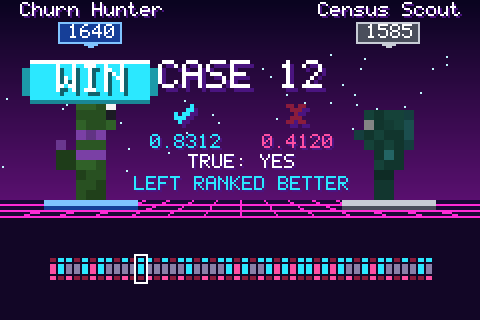
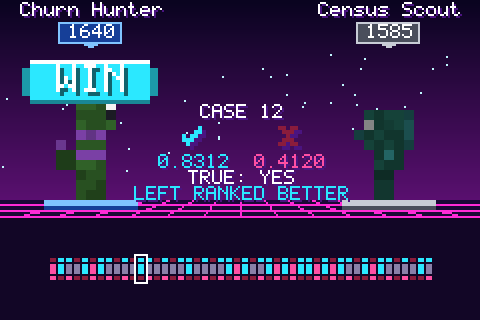
Kards: the duel read-back clears every ending, and takes signed scores
From the game's own wiring of the read-back:
- With a result and a focus together, "CASE n" ran into the WIN
  banner. The whole read-back now sits under every banner and ribbon
  (rows 52 to 99) and between the fighters, so WIN, DRAW and REFUSED
  never cover it.
- Scores were 0..1 only, but a mind's raw score can fall below 0 or
  run past 1 (one telco mind scored -2.75). focus.scores now takes
  signed raw scores in millionths (-99 to 99) and prints the sign.

Only pictures with a focus change (their pins move on purpose);
every other duel is byte for byte the same. Witness CLEAN 138/138 on
arena.mjs, none baselined; 113 tests.

Changed region(s): [[0.2812, 0.1875, 0.7188, 0.6562]]

diff --git a/kards/index.html b/kards/index.html
@@ -315,7 +315,7 @@ paintDuel({ left: { id, rarity, rating, title }, right: { id, rarity, rating, ti
             decided: 3, result: null }, 'synthwave-v1', 1200, 630)   // { ok, px, scale } | { ok: false, why }
 // cases: [leftHit, rightHit] per case, 1 to 192. result: null while it runs, then 'left' or 'right' (WIN), 'draw' or 'refused'.
 // duelScore(duel): { left, right, ties, decided, cases }, counting only the decided cases
-// focus: { at: a decided case (0-based), truth?: 0 | 1, scores?: [left, right] in millionths }: the read-back, that case ringed and told.</code></pre>
+// focus: { at: a decided case (0-based), truth?: 0 | 1, scores?: [left, right], each mind's raw score in millionths, signed }: the read-back.</code></pre>
 </section>
 
 <section id="fusion" aria-labelledby="fusion-h">
@@ -612,7 +612,7 @@ if (!art.ok) console.log(art.why);                       // bad input is a refus
       <tr><td>Every fact shows</td><td>changing any one fact changes the pixels, and a test checks the change lands only where that fact lives.</td></tr>
       <tr><td>1,000 ids, 1,000 Kardlings</td><td>1,000 random ids, 1,000 sequential ids and every single-bit change give distinct Kardlings; all are symmetric, connected, with eyes.</td></tr>
       <tr><td>Integer-only, browser-safe</td><td>a static check of the source: no banned <code>Math</code> calls, no <code>Date</code>, no float literals, one division, no imports.</td></tr>
-      <tr><td>The tests would notice a bug</td><td>a mutation witness flips every comparison, logic operator and &plusmn;1 in the code and the tests must kill every mutant, with nothing baselined: <b data-kernel="kards/kardart.mjs">298</b> mutants in the engine, <b data-kernel="kards/kardpng.mjs">16</b> in the PNG writer, <b data-kernel="kards/ui.mjs">44</b> in the UI kit, <b data-kernel="kards/ttf.mjs">55</b> in the font writer, <b data-kernel="kards/estate.mjs">251</b> in the estate painter, <b data-kernel="kards/arena.mjs">135</b> in the arena, <b data-kernel="kards/raid.mjs">134</b> in the raids, <b data-kernel="kards/gear.mjs">75</b> in the kit slots, <b data-kernel="kards/back.mjs">57</b> in the card backs, <b data-kernel="kards/fusion.mjs">118</b> in the Fusion Lab and <b data-kernel="kards/costcase.mjs">11</b> in the cost case, all killed. CI runs it on every push.</td></tr>
+      <tr><td>The tests would notice a bug</td><td>a mutation witness flips every comparison, logic operator and &plusmn;1 in the code and the tests must kill every mutant, with nothing baselined: <b data-kernel="kards/kardart.mjs">298</b> mutants in the engine, <b data-kernel="kards/kardpng.mjs">16</b> in the PNG writer, <b data-kernel="kards/ui.mjs">44</b> in the UI kit, <b data-kernel="kards/ttf.mjs">55</b> in the font writer, <b data-kernel="kards/estate.mjs">251</b> in the estate painter, <b data-kernel="kards/arena.mjs">138</b> in the arena, <b data-kernel="kards/raid.mjs">134</b> in the raids, <b data-kernel="kards/gear.mjs">75</b> in the kit slots, <b data-kernel="kards/back.mjs">57</b> in the card backs, <b data-kernel="kards/fusion.mjs">118</b> in the Fusion Lab and <b data-kernel="kards/costcase.mjs">11</b> in the cost case, all killed. CI runs it on every push.</td></tr>
     </tbody>
   </table></div>
   <h3>Check it in your own browser</h3>

diff --git a/README.md b/README.md
@@ -101,7 +101,7 @@ In `kards/estate.mjs`: `holdings.landmarks` (any of `arena`, `raids`, `fusion`, 
 
 - **Item cards** (in `kards/kardart.mjs`): `paintArt(facts)` with `facts.form` one of `app | pwa | node | talker | router` draws an item: `{ form, id (16 hex), name (<= 24, the title rule), source (1-20 of A-Za-z0-9 . -), tier: prototype | works | proven }`, the tier being its rarity (common, uncommon, rare). An app is a window, a pwa a phone with a bolt, a node a server, a talker a terminal with a speech bubble, a router (it picks which of its owner's allies answers each case) an antenna, each built as a voxel object so every theme draws it its own way. A scorer card (no form, or `'scorer'`) is drawn exactly as before: every published pin is unchanged. Also exported: `FORMS`, `TIERS`, `GEAR` (`app`/`pwa` a tool, `node`/`router` an ally, `talker` a voice), `FORM_ICON_ROWS`, `itemFront(form, id)` (a 9 x 14 portrait for inventory) and `creatureSide(id)` (a 7 x 14 profile, for the arena).
 - **Gear and inventory** (in `kards/ui.mjs`): `UI_ICONS` gains `slot`, `slot-filled`, `equip`, the gear slots `ally`, `tool`, `voice`, and the Kardlings world icons `WORLD_ICONS`: `inbox`, `fuse`, `next`, `world` (the published seventeen are unchanged); `INVENTORY`, `GEAR_SLOTS`, `FITS` (slot to forms, from `GEAR`) and `FORM_ICONS`.
-- **`kards/arena.mjs`**: `paintDuel(duel, themeId, w, h) -> { ok, px RGB, scale }` with `duel = { left: { id, rarity, rating 0-9999, title? }, right: { ... }, cases: [[leftHit, rightHit], ...] (1-192, each 0 or 1), decided?, result?: null | 'left' | 'right' | 'refused' | 'draw' }`; `checkDuel`; and the published tally `duelScore(duel) -> { left, right, ties, decided, cases }` (a side ranked a case better when it hit and the other missed). A replay can hold one decided case in focus, the read-back: `focus: { at, truth?: 0 | 1, scores?: [left, right] in millionths }` rings that case on the scoreboard and says in the middle how each side did on it, its truth and the two scores when given, and which side ranked it better (![a duel read back](kards/gallery/readback.png)). Without `focus` every published duel is byte for byte the same.
+- **`kards/arena.mjs`**: `paintDuel(duel, themeId, w, h) -> { ok, px RGB, scale }` with `duel = { left: { id, rarity, rating 0-9999, title? }, right: { ... }, cases: [[leftHit, rightHit], ...] (1-192, each 0 or 1), decided?, result?: null | 'left' | 'right' | 'refused' | 'draw' }`; `checkDuel`; and the published tally `duelScore(duel) -> { left, right, ties, decided, cases }` (a side ranked a case better when it hit and the other missed). A replay can hold one decided case in focus, the read-back: `focus: { at, truth?: 0 | 1, scores?: [left, right], each mind's raw score in signed millionths (-99 to 99) }` rings that case on the scoreboard and says, under any ending's banner and between the fighters, how each side did on it, its truth and the two scores when given, and which side ranked it better (![a duel read back](kards/gallery/readback.png)). Without `focus` every published duel is byte for byte the same.
 - **`kards/raid.mjs`**: `paintRaid(raid, themeId, w, h) -> { ok, px RGB, scale }` with `raid = { dataset, department (one of the eight bosses), best: GATE in millionths or null, attempts?, loot?: { id, rarity, title? } (exactly when best >= 600000) }`; `BOSSES` (hospital admissions, clinical, pharmacy, history, discharge; bank credit; adult employer; credit billing), `bossSprite(key, scale)`, `checkRaid`, and the published rule `bossHealth(best) = max(0, 600000 - best)`.
 - **`kards/gear.mjs`** (the kit): `paintSlot(slot, themeId, w, h) -> { ok, px RGB, scale }` with `slot = { kind: 'node' | 'tool', card?: { id, rarity } (a node: another of the owner's cards), worth?: millionths of GATE (-999999..999999), joined?: bool, item?: { id, tier } (a tool: an app item) }` (empty without card or item), a 56 x 64 tile readable at phone size; `kitBadge(fielded, slots 2-4, scale) -> { ok, w, h, px RGBA }`, the overlay that says how many node slots are fielded; `worthText(w)` (+19,727). A duellist in `paintDuel` may carry `kit: { slots, fielded }` for the same pips under its rating. An app item may carry `spdx` (its licence id, at most 16 of A-Za-z0-9 . -), printed beside its slot; its id is the first 16 hex of the sha it was proven at. With `kit: true` an item names its slot in the Kardlings kit's words (`KIT_SLOTS`): a node or router FITS A NODE SLOT, an app or pwa FITS A TOOL SLOT, a talker is a VOICE SLOT; without it the face is the published one.
 - **The full estate**: `holdings.items = [{ id, form, tier, fresh? }]` and/or `holdings.swarms = [{ id, members: [card ids] }]` (a consented team of 2 to 36 of the player's cards), in place of `tools`, draw the full plot: all five districts open, each 6 x 6 so `tilesFor` holds to 36 everywhere, on an L of five squares. An app or pwa stands as a tool block, a node a server block, a talker a terminal block, a router an antenna block, and a swarm as a stack of its members' blocks wired to their towers. Holdings of scorer cards alone draw byte for byte as before. `holdings.districts` (SCORER and any of the rest, e.g. `['scorer', 'tools', 'swarm']`, what the Kardlings game holds) draws only those districts, nothing fenced and nothing marked coming; an item or swarm must stand in one of them, and `estateStats` then counts only those tiles. `holdings.names` (on any plot: `{ <a district drawn>: 1-8 of A-Z, 0-9 and space }`) letters a district with the player's own name in place of its own, as Kardlings letters its swarm district `{ swarm: 'KITTED' }`; nothing else moves, the numbers are unchanged, and without it every published picture is byte for byte the same.
